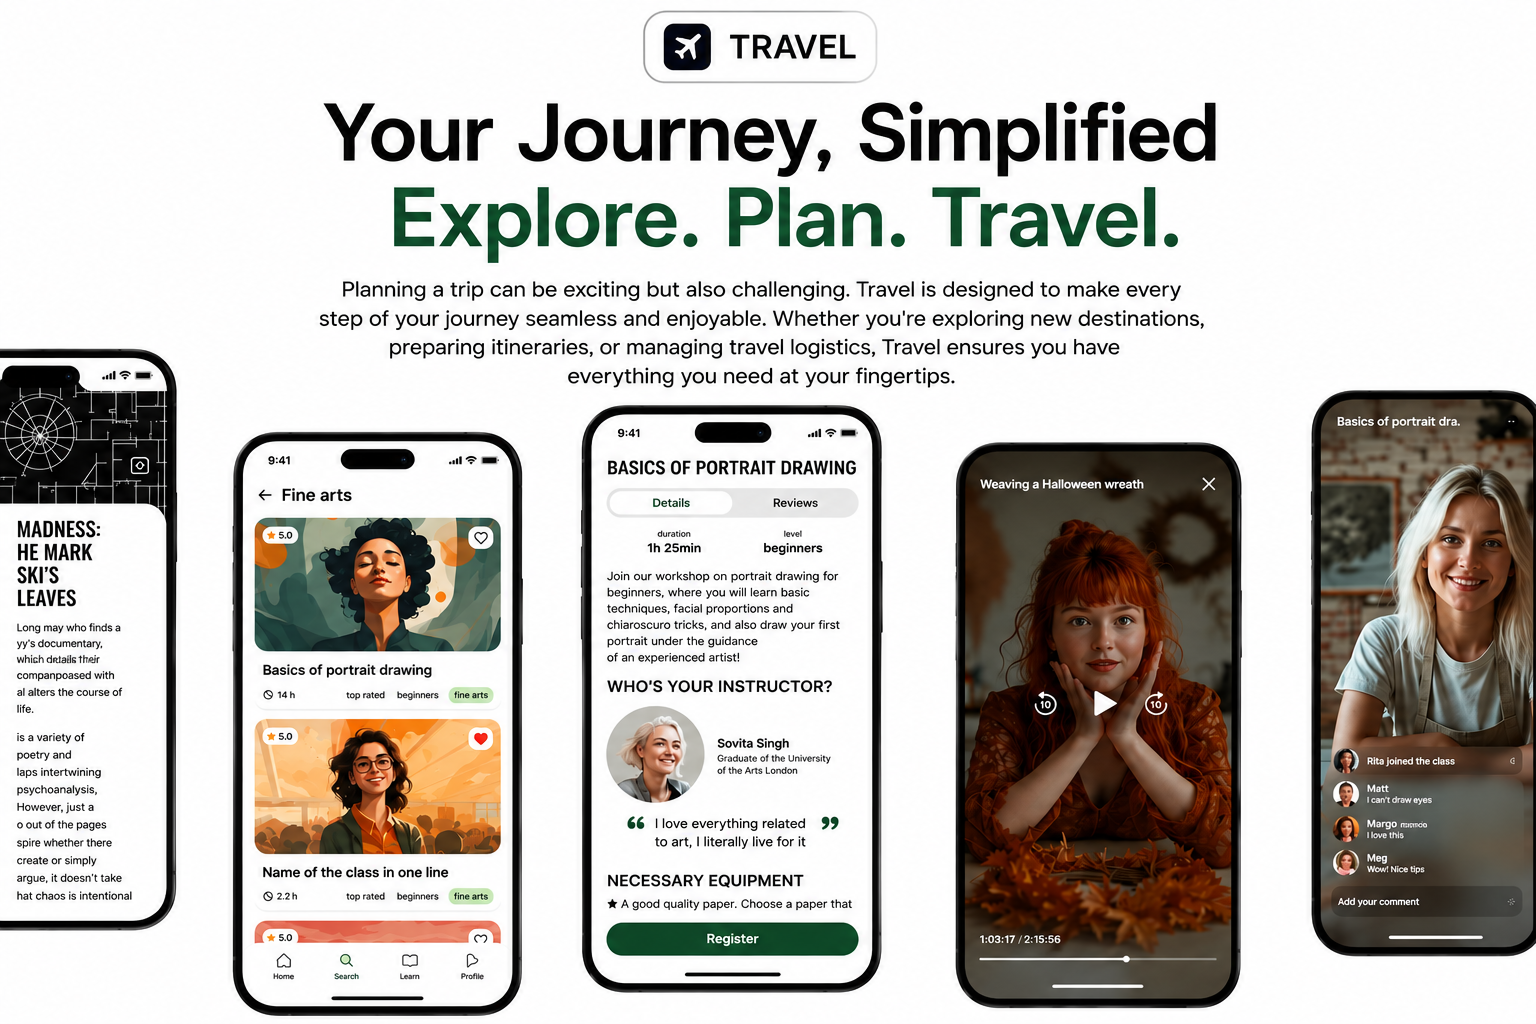
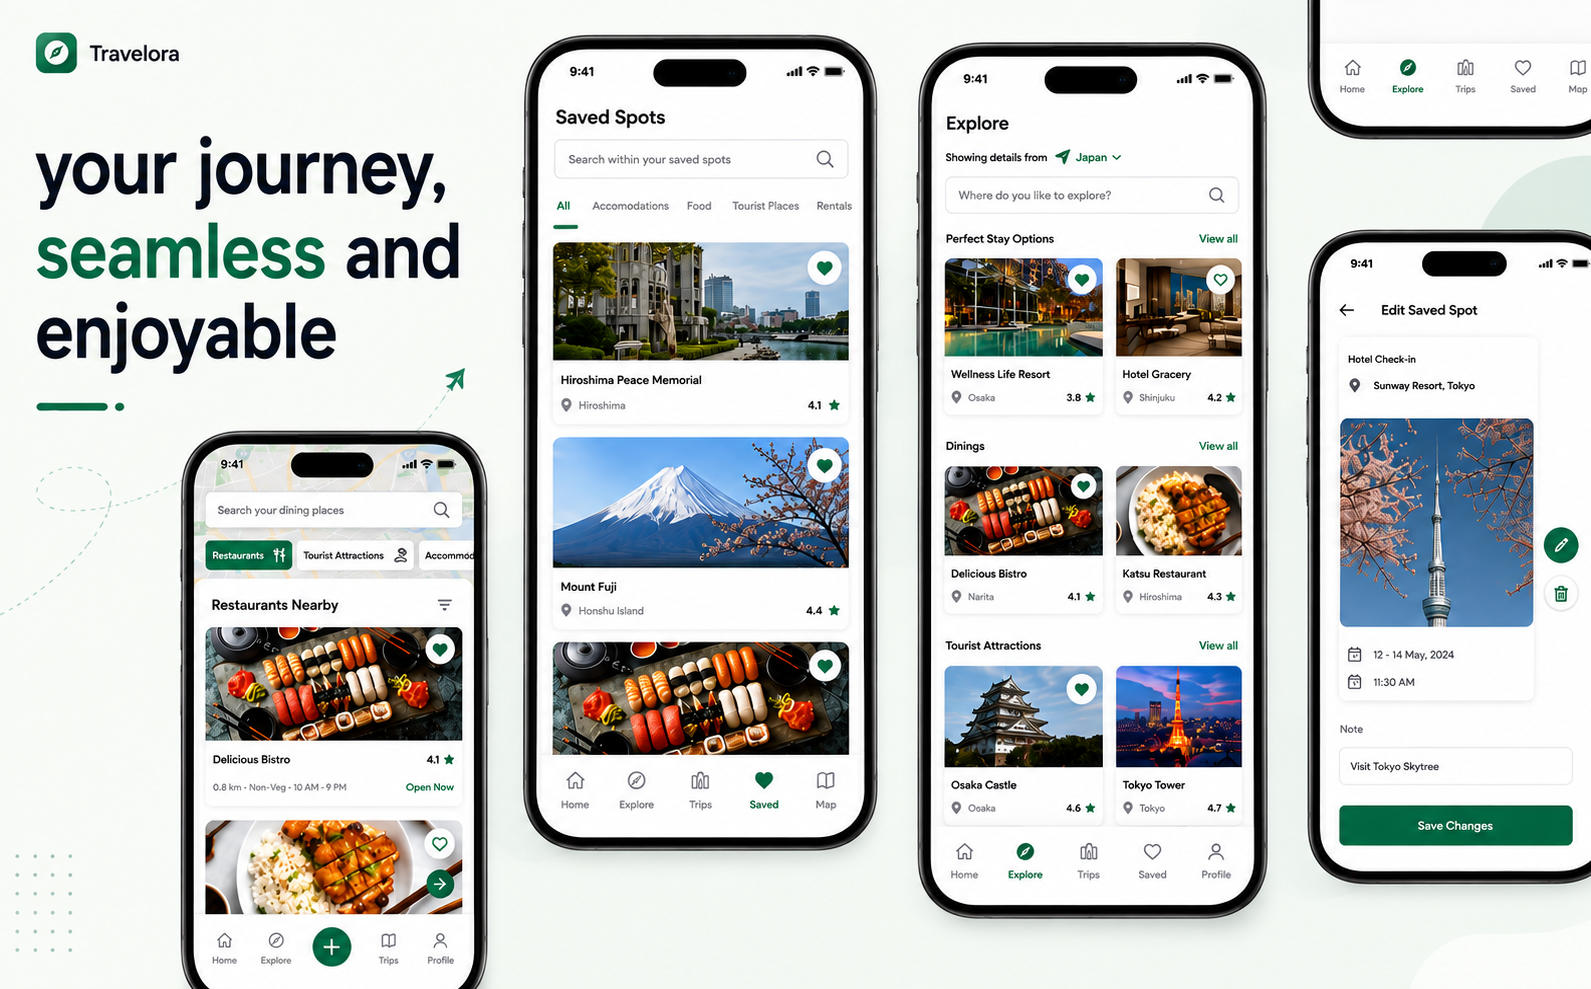
feat: add skill-gain images for 3rd runway case study

diff --git a/js/project-ui.js b/js/project-ui.js
@@ -64,7 +64,18 @@ document.addEventListener("DOMContentLoaded", () => {
       "assets/travel/18.png",
       "assets/travel/19.png",
     ],
-    2: [], // Runway — Fintech Case Study (add assets when ready)
+    2: [
+      "assets/skill-gain/0.png",
+      "assets/skill-gain/1.png",
+      "assets/skill-gain/2.png",
+      "assets/skill-gain/3.png",
+      "assets/skill-gain/4.png",
+      "assets/skill-gain/5.png",
+      "assets/skill-gain/6.png",
+      "assets/skill-gain/7.png",
+      "assets/skill-gain/8.png",
+      "assets/skill-gain/9.png",
+    ],
     3: [], // Component System (add assets when ready)
   };
 

diff --git a/index.html b/index.html
@@ -281,7 +281,7 @@
                 <div class="hero-banner">
                   <div class="overlay-gradient"></div>
                   <img
-                    src="https://images.unsplash.com/photo-1507238691740-187a5b1d37b8?auto=format&fit=crop&w=1600&q=80"
+                    src="assets/skill-gain/0.png"
                     alt="Fintech Case Study"
                   />
                   <div class="showcase-project-details">
